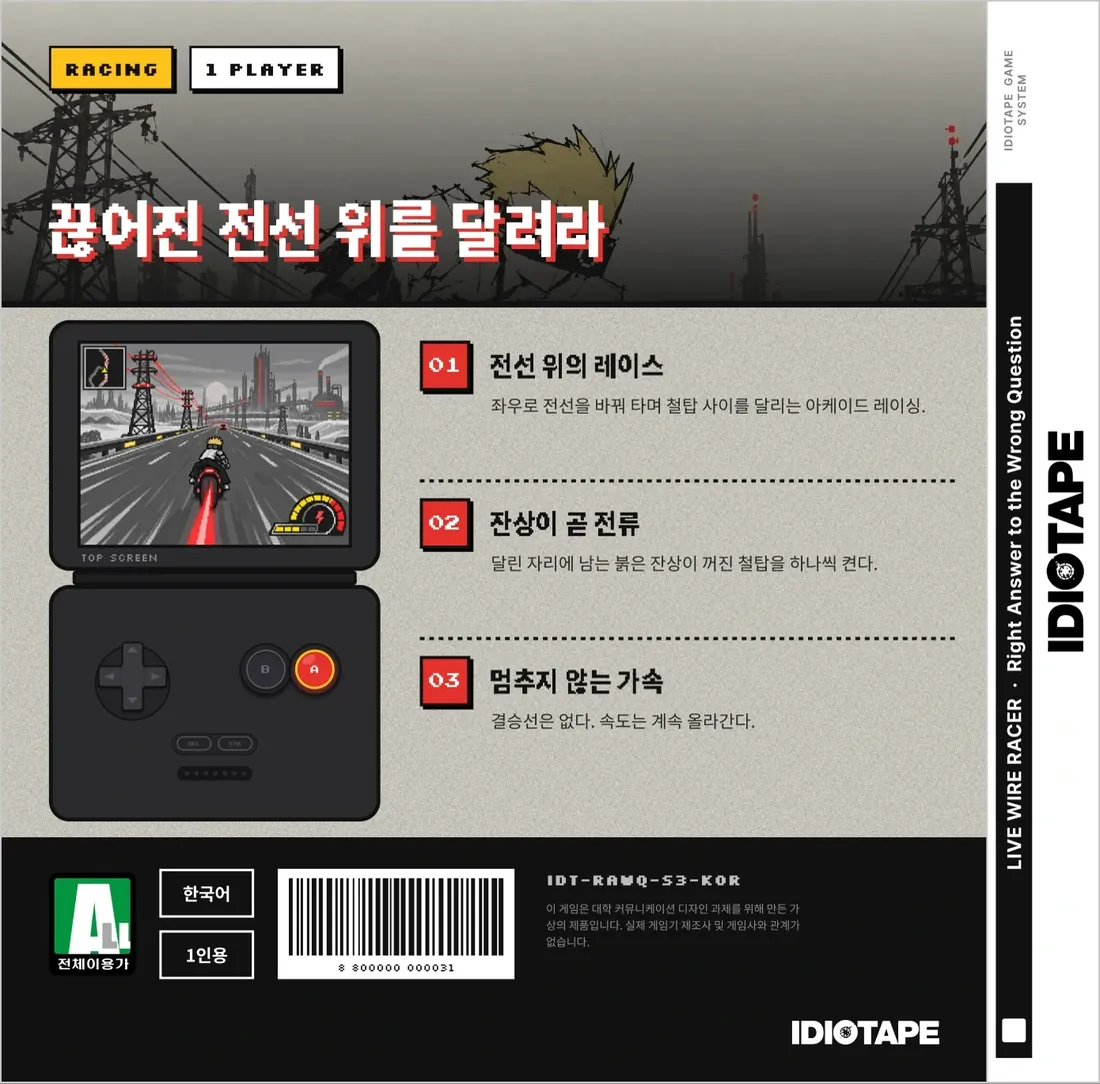
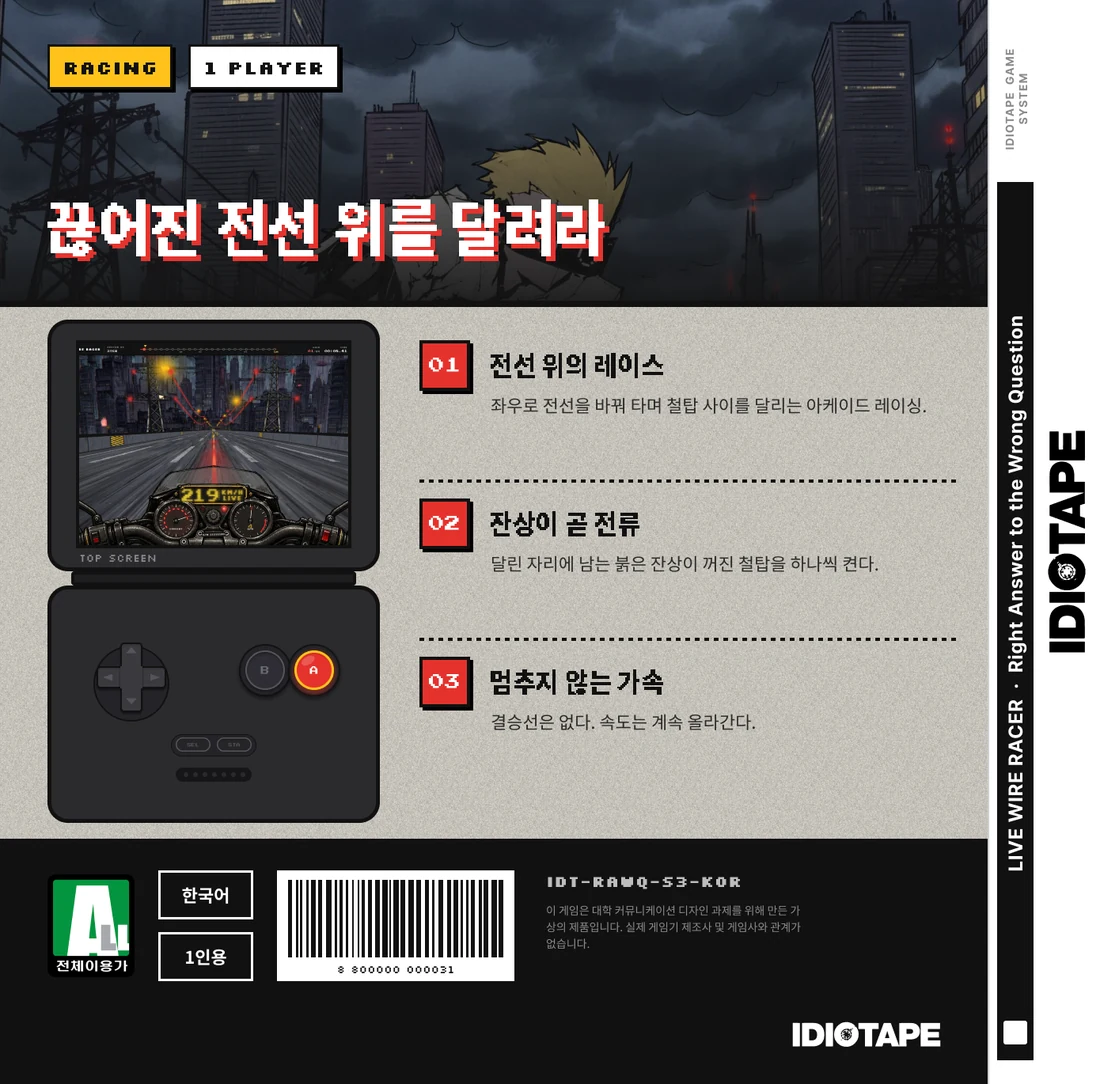
LIVE WIRE RACER: night megacity background, new cover/chip
- Game: replace the paper skyline with three layers (sky / far towers /
  near buildings) based on the Figma "배경 수정사항" image. The city starts
  almost dark and lights up block by block as pylons are lit at gates.
  Fog, road, walls and ground move to dark slate; dead cables keep a pale
  highlight so they stay readable.
- Site: new LIVE WIRE RACER cover front/back, chip and blur images
  (night city behind the same rider, original title logo, B&W chip).
- Remove the unused skyline.webp; keep transparent PNG layer masters in
  images/layers and the Higgsfield prompts in docs/background-prompts.md.

diff --git a/games/live-wire-racer/dist/game.js b/games/live-wire-racer/dist/game.js
@@ -102,7 +102,7 @@
   //   노랑 = 기계의 신호(LED 계기판 · 게이트 차선 표시 · 경고 줄무늬)
   // 부딪히면 색이 빠진다(회색 = 멈춘 미래). 따로 '피해 색'을 두지 않는다.
   const C = {
-    paper:'#eeeae0', paper2:'#e2ddd0', haze:'#d6d1c4', fog:'#e7e2d6',
+    paper:'#eeeae0', paper2:'#e2ddd0', haze:'#d6d1c4', fog:'#343a4a',   // fog: 밤 도시 아래쪽 안개(청회색)
     ink:'#111111', ink2:'#2a2a2a', ink3:'#3c3b38',
     grey1:'#bdbdbd', grey2:'#8a8a8a', grey3:'#5d5c58', concrete:'#bcb7ab',
     red:'#e5322d', redHot:'#ff6a3d', redDeep:'#a3201c',
@@ -834,7 +834,9 @@
     title: 'images/title.webp',         // 타이틀 레터링(투명)
     cockpit: 'images/cockpit.webp',     // 1인칭 핸들 · 계기판(투명)
     pylon: 'images/pylon.webp',         // 철탑
-    skyline: 'images/skyline.webp',     // 원경 도시
+    citySky: 'images/city-sky.webp',    // 원경 1: 낮게 깔린 구름(배경 수정사항)
+    cityFar: 'images/city-far.webp', cityFarLit: 'images/city-far-lit.webp',     // 원경 2: 먼 고층 빌딩(꺼짐 · 켜진 창문)
+    cityNear: 'images/city-near.webp', cityNearLit: 'images/city-near-lit.webp', // 원경 3: 가까운 빌딩(꺼짐 · 켜진 창문)
     portal: 'images/portal.webp',       // 터널 입구
     substation: 'images/substation.webp',
     car: 'images/prop0.webp', barrier: 'images/prop1.webp', barricade: 'images/prop2.webp', coil: 'images/prop3.webp',
@@ -910,7 +912,7 @@
     function asphalt() {
       const W = 1024, H = 2048, [c, x] = mk(W, H);
       const pxm = W / 17.2, ux = m => (m + 8.6) * pxm, pym = H / 24;
-      x.fillStyle = '#8f8c85'; x.fillRect(0, 0, W, H);
+      x.fillStyle = '#44474f'; x.fillRect(0, 0, W, H);
       tiled(x, W, H, 101, 'y', () => {
         // 큰 얼룩(아스팔트 결)
         for (let i = 0; i < 90; i++) {
@@ -920,9 +922,9 @@
         // 진행 방향 마른 붓 자국(표지의 도로처럼)
         for (let i = 0; i < 1400; i++) {
           const dark = R() < .62;
-          dryBrush(x, rnd(0, W), rnd(-200, H), rnd(60, 520), dark ? 2.2 : 1.6, dark ? grey(rnd(20, 60), rnd(.18, .5)) : grey(rnd(200, 240), rnd(.15, .4)));
+          dryBrush(x, rnd(0, W), rnd(-200, H), rnd(60, 520), dark ? 2.2 : 1.6, dark ? grey(rnd(14, 40), rnd(.2, .5)) : grey(rnd(135, 175), rnd(.13, .32)));
         }
-        speckle(x, W, H, 9000, grey(40, .5), grey(220, .45), 2.4);
+        speckle(x, W, H, 9000, grey(25, .5), grey(165, .35), 2.4);
         // 바퀴 자국: 차선마다 두 줄
         for (const lc of COURSE.lanes) for (const o of [-.75, .75]) {
           x.fillStyle = grey(45, .12); x.fillRect(ux(lc + o) - 14, 0, 28, H);
@@ -939,12 +941,12 @@
       });
       // 차선: 6m 칠하고 6m 비운다(한 장에 두 번). 가장자리는 실선
       const dash = (m, y0, len) => {
-        roughRect(x, ux(m) - 9, y0 * pym, 18, len * pym, 'rgba(238,234,224,.92)', 2.5);
+        roughRect(x, ux(m) - 9, y0 * pym, 18, len * pym, 'rgba(196,199,204,.6)', 2.5);
         for (let i = 0; i < 30; i++) dryBrush(x, ux(m) + rnd(-8, 8), y0 * pym + rnd(0, len * pym), rnd(10, 60), 1.5, grey(rnd(60, 120), .45));
       };
       for (const m of [-1.8, 1.8, -5.4, 5.4]) { dash(m, 1, 6); dash(m, 13, 6); }
       for (const m of [-7.05, 7.05]) {
-        roughRect(x, ux(m) - 7, 0, 14, H, 'rgba(238,234,224,.85)', 2);
+        roughRect(x, ux(m) - 7, 0, 14, H, 'rgba(188,191,197,.5)', 2);
         for (let i = 0; i < 60; i++) dryBrush(x, ux(m) + rnd(-6, 6), rnd(0, H), rnd(10, 90), 1.4, grey(rnd(70, 130), .5));
       }
       // 가드레일 밑 그늘
@@ -958,15 +960,15 @@
     /* 콘크리트 방호벽 안쪽 면: 길이 24m × 높이 1.2m. 4m마다 이음매, 한 장에 노랑 줄무늬 표지 하나 */
     function wall(tunnel = false) {
       const W = 1024, H = 256, [c, x] = mk(W, H);
-      x.fillStyle = tunnel ? '#6d6a63' : '#c3beb2'; x.fillRect(0, 0, W, H);
+      x.fillStyle = tunnel ? '#6d6a63' : '#4c5059'; x.fillRect(0, 0, W, H);
       tiled(x, W, H, tunnel ? 203 : 202, 'x', () => {
         for (let i = 0; i < 500; i++) dryBrush(x, rnd(0, W), rnd(-40, H), rnd(30, 200), 1.8, grey(rnd(40, 110), rnd(.1, .35)));
-        speckle(x, W, H, 2600, grey(50, .4), grey(235, .4), 2);
+        speckle(x, W, H, 2600, grey(30, .4), grey(160, .32), 2);
       });
       x.fillStyle = grey(30, .5); x.fillRect(0, 0, W, 10);           // 윗선(잉크)
       x.fillStyle = grey(20, .8); x.fillRect(0, H - 14, W, 14);      // 바닥 그늘
       const pm = W / 24;
-      for (let m = 0; m < 24; m += 4) { x.fillStyle = grey(25, .75); x.fillRect(m * pm, 0, 3, H); x.fillStyle = grey(240, .35); x.fillRect(m * pm + 3, 0, 2, H); }
+      for (let m = 0; m < 24; m += 4) { x.fillStyle = grey(20, .75); x.fillRect(m * pm, 0, 3, H); x.fillStyle = grey(170, .3); x.fillRect(m * pm + 3, 0, 2, H); }
       // 노랑-검정 줄무늬 표지(표지 그림의 가드레일처럼 작게)
       const sx = 10 * pm, sw = 1.6 * pm;
       x.save(); x.beginPath(); x.rect(sx, 26, sw, H - 60); x.clip();
@@ -1061,20 +1063,20 @@
     // 고가도로 아래 땅: 연한 안개 속 무너진 블록
     function ground() {
       const W = 1024, H = 1024, [c, x] = mk(W, H);
-      x.fillStyle = '#cfcabd'; x.fillRect(0, 0, W, H);
+      x.fillStyle = '#2a2f39'; x.fillRect(0, 0, W, H);
       for (let i = 0; i < 260; i++) {
-        x.fillStyle = grey(rnd(90, 160), rnd(.15, .4));
+        x.fillStyle = grey(rnd(16, 60), rnd(.15, .4));
         const w = rnd(20, 90), h = rnd(20, 90); x.fillRect(rnd(0, W), rnd(0, H), w, h);
       }
-      for (let i = 0; i < 1200; i++) dryBrush(x, rnd(0, W), rnd(0, H), rnd(20, 120), 1.2, grey(rnd(60, 140), rnd(.08, .25)), R() < .5);
+      for (let i = 0; i < 1200; i++) dryBrush(x, rnd(0, W), rnd(0, H), rnd(20, 120), 1.2, grey(rnd(70, 120), rnd(.06, .18)), R() < .5);
       return c;
     }
     // 고무 피복 전선
     function cable() {
       const [c, x] = mk(64, 256);
-      x.fillStyle = '#262626'; x.fillRect(0, 0, 64, 256);
-      for (let i = 0; i < 16; i++) { x.strokeStyle = grey(rnd(70, 110), .7); x.lineWidth = 3; x.beginPath(); x.moveTo(0, i * 16); x.lineTo(64, i * 16 + 12); x.stroke(); }
-      x.fillStyle = grey(140, .35); x.fillRect(22, 0, 6, 256);
+      x.fillStyle = '#2c2e34'; x.fillRect(0, 0, 64, 256);
+      for (let i = 0; i < 16; i++) { x.strokeStyle = grey(rnd(90, 130), .7); x.lineWidth = 3; x.beginPath(); x.moveTo(0, i * 16); x.lineTo(64, i * 16 + 12); x.stroke(); }
+      x.fillStyle = grey(210, .7); x.fillRect(21, 0, 9, 256);
       return c;
     }
     // 터널 천장 · 벽(어두운 콘크리트, 판 이음매)
@@ -1744,8 +1746,8 @@ gl_Position = projectionMatrix * mvPosition;`);
       T.ground = tex(TEX.ground(), { repeat: true });
       T.cable = tex(TEX.cable(), { repeat: true });
       T.tunnel = tex(TEX.tunnelPanel(), { repeat: true });
-      for (const k of ['pylon', 'skyline', 'portal', 'substation', 'car', 'barrier', 'barricade', 'coil', 'ind0', 'ind1', 'ind2', 'ind3', 'logo']) if (IMG[k]) T[k] = tex(IMG[k], { aniso: 4 });
-      T.skyline.wrapS = THREE.RepeatWrapping;
+      for (const k of ['pylon', 'citySky', 'cityFar', 'cityFarLit', 'cityNear', 'cityNearLit', 'portal', 'substation', 'car', 'barrier', 'barricade', 'coil', 'ind0', 'ind1', 'ind2', 'ind3', 'logo']) if (IMG[k]) T[k] = tex(IMG[k], { aniso: 4 });
+      for (const k of ['cityFar', 'cityFarLit', 'cityNear', 'cityNearLit']) T[k].wrapS = THREE.RepeatWrapping;
       M.glowRed = glowMat(C.red); M.glowHot = glowMat(C.redHot); M.glowYellow = glowMat(C.yellow); M.glowWhite = glowMat('#ffffff');
       M.steel = basic({ color: '#2a2a28' });
       M.ink = basic({ color: '#141414' });
@@ -1773,45 +1775,74 @@ gl_Position = projectionMatrix * mvPosition;`);
         const dg = new THREE.PlaneGeometry(L, 3.4, Math.round(L / 8), 1);
         dg.rotateY(side < 0 ? -Math.PI / 2 : Math.PI / 2);
         dg.translate(side * (COURSE.roadHalf + .4), -1.6, -(L / 2 - behind - 20));
-        add(new THREE.Mesh(dg, basic({ color: '#4a4844', side: THREE.DoubleSide })));
+        add(new THREE.Mesh(dg, basic({ color: '#2b2f37', side: THREE.DoubleSide })));
       }
       const gg = new THREE.PlaneGeometry(3200, 2200, 16, 22);
       gg.rotateX(-Math.PI / 2); gg.translate(0, -34, -900);
       T.ground.repeat.set(10, 7);
-      groundM = add(new THREE.Mesh(gg, basic({ map: T.ground })));
+      groundM = add(new THREE.Mesh(gg, basic({ map: T.ground, depthWrite: false })));
+      groundM.renderOrder = -13;   // 하늘 다음, 빌딩 겹 아래: 방호벽 너머는 빌딩 아랫부분이 채운다
     }
 
-    /* ---------- 원경 도시: 두 겹. 굽이를 돌면 옆으로 미끄러진다. 켠 철탑만큼 불빛이 켜진다 ---------- */
+    /* ---------- 원경 도시: 하늘 · 먼 빌딩 · 가까운 빌딩 세 겹(피그마 '배경 수정사항' 그림). 굽이를 돌면 가까운 겹일수록 더 옆으로 미끄러진다
+       빌딩 겹은 '꺼진 그림' 위에 '켜진 창문 · 간판 그림'을 덧그린다. 철탑을 켤 때마다 블록 단위로 차례차례 불이 들어온다 ---------- */
     const sky = [];
-    let cityLights, cityLightData = [];
+    let farLayer, cityLights, cityLightData = [], cityLit = 0;
+    const CITY_U = { uLit: { value: 0 }, uTime: { value: 0 } };
+    function cityMat(map, lit, cells, seed) {
+      const m = new THREE.MeshBasicMaterial({ map, transparent: true, fog: false, depthWrite: false });
+      if (lit) {
+        const u = { tLit: { value: lit }, uCells: { value: new THREE.Vector2(cells[0], cells[1]) }, uSeed: { value: seed } };
+        m.onBeforeCompile = sh => {
+          Object.assign(sh.uniforms, u, CITY_U);
+          sh.fragmentShader = sh.fragmentShader
+            .replace('#include <common>', '#include <common>\nuniform sampler2D tLit; uniform vec2 uCells; uniform float uSeed, uLit, uTime;')
+            .replace('#include <map_fragment>', `#include <map_fragment>
+  {
+    vec4 lt = texture2D(tLit, vMapUv);
+    vec2 cell = floor(vec2(fract(vMapUv.x) * uCells.x, vMapUv.y * uCells.y));
+    float ord = .02 + .96 * fract(sin(dot(cell + uSeed, vec2(12.9898, 78.233))) * 43758.5453);
+    float on = smoothstep(ord - .05, ord, uLit);
+    float fl = .88 + .12 * sin(uTime * (2.0 + ord * 6.0) + ord * 40.0);
+    diffuseColor.rgb = mix(diffuseColor.rgb, min(lt.rgb * 1.3, vec3(1.0)), clamp(lt.a * on * fl * 1.25, 0.0, 1.0));
+    diffuseColor.a = max(diffuseColor.a, lt.a * on);
+  }`);
+        };
+      }
+      return basic(m);
+    }
     function buildSkyline() {
+      const ar = k => IMG[k].width / IMG[k].height;
       const layers = [
-        { z: -1180, h: 400, w: 3300, rep: 3, off: 0, op: .55, col: '#cfcabd', y: -60 },
-        { z: -720, h: 230, w: 1500, rep: 2, off: .37, op: .8, col: '#9f9a90', y: -40 }
+        { k: 'citySky', z: -2300, h: 4600, w: 11000, y: -700, sh: .04 },
+        { k: 'cityFar', lit: 'cityFarLit', z: -1180, h: 1200, y: -150, sh: .12, cells: [40, 9], seed: 3.1 },
+        { k: 'cityNear', lit: 'cityNearLit', z: -640, h: 520, y: -190, sh: .3, cells: [22, 6], seed: 7.7 }
       ];
       for (const l of layers) {
-        const map = T.skyline.clone(); map.needsUpdate = true; map.wrapS = THREE.RepeatWrapping; map.repeat.set(l.rep, 1); map.offset.x = l.off;
-        const m = new THREE.Mesh(new THREE.PlaneGeometry(l.w, l.h), basic({ map, transparent: true, opacity: l.op, color: l.col, fog: false, depthWrite: false }));
-        m.position.set(0, l.y + l.h / 2, l.z); m.renderOrder = -10 + sky.length;
+        l.w = l.w || l.h * ar(l.k); l.off = 0;
+        const map = T[l.k].clone(); map.needsUpdate = true; map.wrapS = l.lit ? THREE.RepeatWrapping : THREE.ClampToEdgeWrapping;
+        const m = new THREE.Mesh(new THREE.PlaneGeometry(l.w, l.h), cityMat(map, l.lit && T[l.lit], l.cells, l.seed));
+        m.position.set(0, l.y + l.h / 2, l.z); m.renderOrder = sky.length ? -12 + sky.length : -14;
         m.userData = l; add(m); sky.push(m);
       }
-      // 첨탑 꼭대기 자리를 그림에서 찾아 불빛 자리로 쓴다
-      const im = IMG.skyline, cv = document.createElement('canvas'), w = 336, h = Math.round(336 * im.height / im.width);
+      farLayer = sky[1];
+      // 첨탑 꼭대기 자리를 먼 빌딩 그림에서 찾아 항공 경고등 자리로 쓴다(켠 철탑 수만큼 켜진다)
+      const im = IMG.cityFar, cv = document.createElement('canvas'), w = 512, h = Math.round(512 * im.height / im.width);
       cv.width = w; cv.height = h; const cx = cv.getContext('2d'); cx.drawImage(im, 0, 0, w, h);
       const a = cx.getImageData(0, 0, w, h).data, pts = [];
-      for (let x = 2; x < w - 2; x += 1) for (let y = 2; y < h * .8; y++) {
-        if (a[(y * w + x) * 4 + 3] > 150) { if (a[((y - 2) * w + x) * 4 + 3] < 40) pts.push([x / w, y / h]); break; }
+      for (let x = 2; x < w - 2; x += 1) for (let y = 2; y < h * .7; y++) {
+        if (a[(y * w + x) * 4 + 3] > 170) { if (a[((y - 3) * w + x) * 4 + 3] < 50) pts.push([x / w, y / h]); break; }
       }
-      const R = mulberry(9), far = sky[0].userData;
-      const n = Math.min(150, pts.length), geo = new THREE.PlaneGeometry(1, 1);
-      cityLights = new THREE.InstancedMesh(geo, basic({ map: T.glow, color: '#ffffff', transparent: true, depthWrite: false, fog: false }), n * far.rep);
+      const R = mulberry(9);
+      const n = Math.min(110, pts.length), geo = new THREE.PlaneGeometry(1, 1);
+      cityLights = new THREE.InstancedMesh(geo, basic({ map: T.glow, color: '#ffffff', transparent: true, depthWrite: false, fog: false }), n);
       cityLights.instanceMatrix.setUsage(THREE.DynamicDrawUsage);
+      cityLights.renderOrder = -9;
       const col = new THREE.Color();
-      let k = 0;
-      for (let r = 0; r < far.rep; r++) for (let i = 0; i < n; i++) {
+      for (let k = 0; k < n; k++) {
         const p = pts[Math.floor(R() * pts.length)];
-        cityLightData.push({ u: (r + p[0]) / far.rep, v: p[1], on: R(), size: 5 + R() * 9, ph: R() * 6.28, yellow: R() < .35 });
-        col.set(cityLightData[k].yellow ? C.yellow : C.red); cityLights.setColorAt(k, col); k++;
+        cityLightData.push({ u: p[0], v: p[1], on: .05 + R() * .95, size: 4 + R() * 7, ph: R() * 6.28, yellow: R() < .3 });
+        col.set(cityLightData[k].yellow ? C.yellow : C.red); cityLights.setColorAt(k, col);
       }
       add(cityLights);
     }
@@ -2248,7 +2279,7 @@ gl_Position = projectionMatrix * mvPosition;`);
       g.add(tunnelLamps, tunnelGlows);
       // 입구 · 출구(구멍을 뚫은 그림 판). 구멍이 도로 폭과 터널 높이에 맞도록 크기를 정했다
       const pw = (COURSE.roadHalf * 2 + .2) / .546, ph = pw * IMG.portal.height / IMG.portal.width;
-      const pm = basic({ map: T.portal, alphaTest: .4, side: THREE.DoubleSide });
+      const pm = basic({ map: T.portal, color: '#a2a8b4', alphaTest: .4, side: THREE.DoubleSide });
       for (const z of [0, -len]) {
         const p = new THREE.Mesh(new THREE.PlaneGeometry(pw, ph), pm);
         p.position.set(0, -ph * .018 + ph / 2 - .3, z + .2); g.add(p);
@@ -2261,7 +2292,7 @@ gl_Position = projectionMatrix * mvPosition;`);
     /* ---------- 정유 단지 구조물 · 변전소 · IDIOTAPE 전광탑 ---------- */
     const scenePool = [];
     function buildScenery() {
-      const mats = [0, 1, 2, 3].map(k => basic({ map: T['ind' + k], alphaTest: .45, side: THREE.DoubleSide }));
+      const mats = [0, 1, 2, 3].map(k => basic({ map: T['ind' + k], color: '#a2a8b4', alphaTest: .45, side: THREE.DoubleSide }));
       for (let i = 0; i < 26; i++) {
         const m = new THREE.Mesh(new THREE.PlaneGeometry(1, 1), mats[0]);
         m.userData = { mats, item: null }; m.visible = false; add(m); scenePool.push(m);
@@ -2922,10 +2953,9 @@ gl_Position = projectionMatrix * mvPosition;`);
       walls[1].material.map.offset.x = (-s / 24) % 1;
       T.ground.offset.y = (s / 320) % 1;
 
-      /* 원경: 굽이 방향만큼 옆으로 */
-      const hd = course.heading[Math.min(course.N - 1, Math.max(0, Math.floor(s)))];
-      sky[0].material.map.offset.x = sky[0].userData.off - hd * .16;
-      sky[1].material.map.offset.x = sky[1].userData.off - hd * .3;
+      /* 원경: 굽이 방향만큼 옆으로. 가까운 겹일수록 더 많이(코스 평균 방향 .25를 가운데로) */
+      const hd = course.heading[Math.min(course.N - 1, Math.max(0, Math.floor(s)))] - .25;
+      for (const l of sky) l.material.map.offset.x = l.userData.off - hd * l.userData.sh;
 
       /* 터널 안팎: 안개 · 원경. 정전 구간은 거의 까맣고, 내 전류가 천장 등을 켜는 자리만 보인다 */
       const tn = course.tunnel;
@@ -2950,7 +2980,7 @@ gl_Position = projectionMatrix * mvPosition;`);
       const fogCol = col.set(C.fog).lerp(TUNNEL_FOG, inTunnel * .9).lerp(DARK_FOG, darkK);
       scene.fog.color.copy(fogCol); scene.background.copy(fogCol);
       scene.fog.far = lerp(760 - inTunnel * 360, lampOn ? HAZARD.darkFarLive : HAZARD.darkFar, darkK); scene.fog.near = lerp(90 - inTunnel * 50, 3, darkK);
-      for (const l of sky) l.visible = inTunnel < .95;
+      for (const l of sky) { l.visible = inTunnel < .95; l.material.color.setScalar(1 - darkK * .85); }
       cityLights.visible = inTunnel < .95;
       tunnel.visible = s > tn.s0 - ahead - 40 && s < tn.s1 + behind + 20;
       tunnel.position.z = zOf(tn.s0);
@@ -3174,7 +3204,7 @@ gl_Position = projectionMatrix * mvPosition;`);
         sub.position.set(0, 0, -(sd));
         const op = clamp(1 - (sd - 600) / 2300, .08, 1);
         sub.children[0].material.opacity = op;
-        sub.children[0].material.color.set(col.set(C.fog).lerp(new THREE.Color('#ffffff'), op));
+        sub.children[0].material.color.set(col.set(C.fog).lerp(new THREE.Color('#b9bec9'), op));
         const total = run.lit / course.gates.length;
         subLights.forEach((q, k) => { const f = k / subLights.length; q.visible = finishGlow > f * .8 && f < total + .01; q.scale.setScalar(7 * (.8 + .2 * Math.sin(time * 7 + k))); });
         subRing.visible = finishGlow > 0 && total > .5;
@@ -3182,12 +3212,15 @@ gl_Position = projectionMatrix * mvPosition;`);
         if (subLogo) subLogo.visible = finishGlow > .5 && run.lit === course.gates.length;
       }
 
-      /* 원경 도시 불빛: 켠 철탑 수만큼 */
-      const far = sky[0], fu = far.userData, frac = run.lit / course.gates.length;
-      const show = mode === 'attract' ? .3 + .1 * Math.sin(time * .7) : Math.max(frac * .85, finishGlow * frac);
+      /* 원경 도시 불빛: 출발 직후엔 거의 다 꺼져 있다. 게이트를 지나 철탑이 켜지면 창문 · 간판이 블록 단위로 켜지고, 켠 철탑이 늘수록 더 켜진다 */
+      const far = farLayer, fu = far.userData, frac = run.lit / course.gates.length;
+      const litTo = mode === 'attract' ? .03 : run.lit > 0 ? Math.max(.18 + .82 * frac, finishGlow * frac) : 0;
+      cityLit += (litTo - cityLit) * Math.min(1, dt * (litTo > cityLit ? 1.6 : 3));
+      CITY_U.uLit.value = cityLit * (1 - darkK); CITY_U.uTime.value = time;
+      const show = cityLit * .95 * (1 - darkK);
       for (let k = 0; k < cityLightData.length; k++) {
         const d = cityLightData[k];
-        let u = (d.u * fu.rep + far.material.map.offset.x) / fu.rep; u = ((u % 1) + 1) % 1;
+        let u = d.u - far.material.map.offset.x; u = ((u % 1) + 1) % 1;
         const on = d.on < show;
         const x = (u - .5) * fu.w, y = fu.y + fu.h * (1 - d.v);
         const sc = on ? d.size * (.75 + .25 * Math.sin(time * 3 + d.ph)) : 0;

diff --git a/games/live-wire-racer/docs/background-prompts.md b/games/live-wire-racer/docs/background-prompts.md
@@ -1,0 +1,69 @@
+# LIVE WIRE RACER 배경 수정 — Higgsfield 프롬프트 기록 (2026-11-01)
+
+기준: 피그마 「중간」 페이지 `265:1718` 「live wire racer 배경 수정사항」 (2736×1536)
+
+## 참고 이미지 (Higgsfield에 올린 것)
+
+| 번호 | 내용 | 피그마 |
+|---|---|---|
+| ① | 배경 수정사항 원본 2736×1536 | `265:1718` |
+| ② | 지금 표지 앞면 그림 원본 1920×2160 (Set 3) | `77:560` 안의 이미지 |
+| ③ | 주인공 캐릭터 1254×1254 | `84:2471` |
+
+## 모델
+
+- **Nano Banana Pro** (`nano_banana_pro`, 2K, 1장 2크레딧): 표지, 배경 시안, 하늘
+  - 참고 이미지를 여러 장 받는다. 입력 그림의 인물·구도를 유지한 채 배경만 바꾸는 편집이 가장 안정적이고, 잉크 그림체를 따른다.
+- **Nano Banana 2.1** (`nano_banana_2_1`, 4K, 4:1): 먼 빌딩·가까운 빌딩 띠
+  - 4:1 비율을 지원하는 모델이라 가로로 긴 원경 띠를 한 장으로 뽑을 수 있다.
+- **업스케일**: `bytedance` 4K. 고른 표지·배경에만 썼다.
+
+## 표지 (고른 것: CV-3, 1:1) — 참고 ② ① ③ 순서
+
+```
+Edit Image 1, an ink-sketch game cover illustration. Keep the rider and motorbike from Image 1 unchanged: same pose, camera angle and position; spiky blond hair, black goggle visor with two white ring eyes, white shirt, mechanical gray arm and glove, black pants and boots, the front of the black motorbike with its glowing yellow pixel LED bar, and the red pixel electric-current trail streaming from the wheel. Image 3 shows the same character for reference; keep his design identical. Remove the 'LIVE WIRE RACER' title lettering completely and continue the highway road where it was. Replace only the background: the pale paper sky and gray city become a night megacity drawn in the same rough ink-pen hatching style, matching the mood of Image 2: dense skyscrapers rising up to the top edge, very tall towers, skybridges between buildings, spires, antennas, a small drone; low heavy dark blue-gray clouds with almost no open sky. Buildings are charcoal gray, slate navy and muted dusty purple, mostly unlit; only small scattered windows glow pale yellow and a few small signs glow red or amber-yellow. No pink, no cyan, no teal, no blue neon. Steel high-voltage transmission towers and power lines keep running along the elevated highway between the buildings, dark steel with small red warning lamps. The highway asphalt is dark gray with motion speed lines. The red current trail and the yellow LED bar must stay the brightest, most saturated things in the picture. Hand-drawn ink illustration with paper grain, not 3D, not photographic. Square composition, rider centered. Darker and moodier: heavier clouds, even fewer lit windows, most of the city an almost black-gray mass, so the red trail glows strongly.
+```
+
+다른 시안의 마지막 문장: CV-1 `Keep the background layout close to Image 2: a very tall tower behind the center and another on the right.` / CV-2 `One colossal tower rises directly behind the rider's head...`(분홍·청록 간판이 나와 제외) / CV-4 `The elevated highway runs into a canyon of skyscrapers...`
+
+뒤처리
+- 4K 그림을 원본과 같은 1920×2160으로 맞춘다.
+- 원본 표지에서 제목 로고 부분만 오려 같은 픽셀 위치에 다시 얹는다. 로고 위치는 `images/title.webp`로 찾았다.
+- 종이 결을 옅게 덧입힌다.
+- 칩은 이 그림의 흑백판이다. 머리카락, LED 띠, 빨간 전류, 로고만 색을 남긴다.
+
+## 게임 배경 시안 (고른 것: BG-4, 16:9) — 참고 ① ②
+
+```
+Wide panoramic illustration of a night megacity skyline for a racing game background. Match Image 1 in composition, density and mood, and draw it in the rough ink-pen hatching style of Image 2 (hand-drawn ink illustration with paper grain, not 3D, not photographic). Dense skyscrapers fill the frame up to the top edge: one very tall tower in the center and another on the right, skybridges connecting buildings, spires, antennas, two small drones. Low heavy dark blue-gray clouds, almost no open sky. Buildings are charcoal gray, slate navy and muted dusty purple. Most windows are dark; only small scattered windows glow pale yellow and a few small signs glow red or amber-yellow. No pink, no cyan, no teal, no blue neon. Viewed straight on at eye level from an elevated highway. The bottom edge is a flat band of dark blue-gray haze: no road, no cars, no people, no characters, no foreground objects, no text, no logos. Darker and moodier: heavier clouds and even fewer lit windows, the city almost a black-gray silhouette with rare pale yellow windows and two or three red signs.
+```
+
+## 게임 층 (참고: BG-4 + ①)
+
+먼 빌딩 `city-far` — Nano Banana 2.1, 4:1, 4K
+```
+Extend Image 1 into a very wide 4:1 panorama of the same night megacity, in exactly the same rough ink-pen hatching illustration style, colors and lighting as Image 1 (mood of Image 2). Dense skyscrapers of varied heights across the whole width, with three very tall towers rising almost to the top edge, skybridges connecting buildings, spires, antennas, rooftop water tanks. Buildings are charcoal gray, slate navy and muted dusty purple; distant buildings paler blue-gray from haze, nearer ones darker. Most windows are dark; only small scattered windows glow pale yellow and a few small signs glow red or amber-yellow. No pink, no cyan, no teal, no blue neon. Near the far left and far right edges the buildings are lower. Replace the entire sky with a flat solid pure green (#00FF00) background: no clouds, no gradient, no texture, no haze in the sky, so the buildings can be cut out cleanly. The bottom of the image is a dark blue-gray haze band where the buildings' bases disappear. No drones, no people, no vehicles, no text, no logos.
+```
+
+가까운 빌딩 `city-near` — Nano Banana 2.1, 4:1, 4K
+```
+A very wide 4:1 strip of NEAR foreground city buildings at night, seen straight on from an elevated highway, drawn in exactly the same rough ink-pen hatching illustration style and colors as Image 1. Dark, detailed mid-rise and high-rise facades with heavy ink hatching, rooftop water tanks, antennas, pipes, ducts, fire escapes, empty billboard frames, a short skybridge. Taller blocks at the far left and far right, lower rooftops in the middle so a distant city behind would stay visible. Colors: very dark charcoal, slate navy, muted dusty purple. Most windows dark; a few small windows glow pale yellow and one or two small signs glow red or amber-yellow. No pink, no cyan, no teal. Everything above and between the buildings is a flat solid pure green (#00FF00) background with no clouds, no gradient and no haze. Building bases run along the bottom edge. No people, no vehicles, no drones, no text, no logos.
+```
+
+하늘 `city-sky` — Nano Banana Pro, 21:9, 2K
+```
+Only the sky of Image 1, with every building removed: low, heavy, dark blue-gray night clouds filling the whole frame, drawn in the same rough ink-pen hatching illustration style and colors as Image 1 (mood of Image 2). Slightly lighter, hazier blue-gray toward the bottom horizon, darker toward the top. No open bright sky, no moon, no stars, no buildings, no drones, no birds, no text. Soft and even enough to sit behind a city skyline.
+```
+
+뒤처리 (빌딩 두 층)
+- 초록을 빼서 투명하게 만든다.
+- 청록 기운은 회청색으로 누른다.
+- 탑 꼭대기는 위로 갈수록 흐려지게 해 구름 속으로 사라지게 한다.
+- 좌우 끝을 겹쳐 섞어서 가로로 반복해도 이음매가 보이지 않게 한다.
+- 켜진 창문·간판을 골라 따로 떼어 `*-lit` 그림으로 만든다. 그 자리는 주변 색으로 메워 꺼진 그림을 만든다.
+
+## 파일
+
+- 게임이 불러오는 파일: `images/city-sky.webp`, `city-far.webp`, `city-far-lit.webp`, `city-near.webp`, `city-near-lit.webp`
+- 투명 PNG 원본: `images/layers/`
+- 꺼짐 → 켜짐: 게이트를 지나 철탑이 켜질 때마다 `*-lit` 그림이 블록 단위로 차례차례 켜진다. 첫 게이트에서 약 18%가 켜지고, 24개를 모두 켜면 100%가 된다 (`dist/game.js`의 `cityMat` · `cityLit`).
